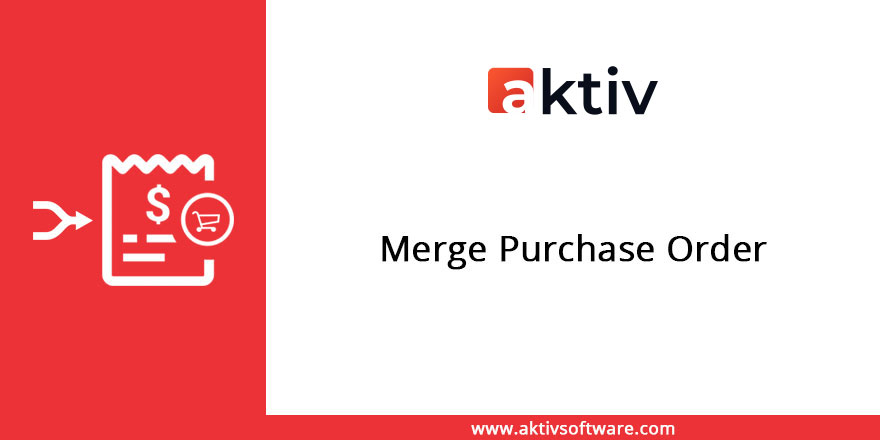
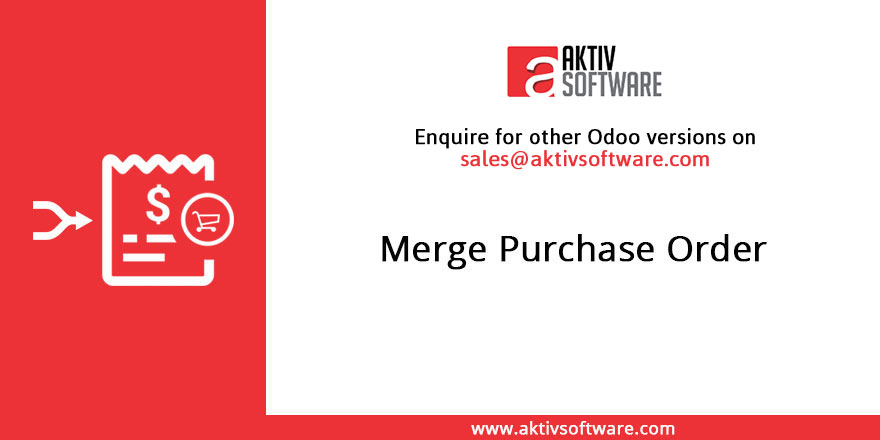
[ADD]: Added Module in 14.0

Changed region(s): [[0.5523, 0.0886, 0.767, 0.2659], [0.4602, 0.2955, 0.8591, 0.3841]]

diff --git a/merge_purchase_order/static/description/index.html b/merge_purchase_order/static/description/index.html
@@ -5,7 +5,9 @@
                     Merge Purchase Order </span></b></h4>
         </div>
     </div>
-
+    <div class="oe_slogan oe_spaced text-center" style="margin-top: -15px;">
+        <a class="btn btn success mt8" title="video_tutorial" target="new" style="background-color:#ff4040; font-size: 20px; color: #ffffff; !important; position:relative; overflow: hidden;" href="https://youtu.be/IrEScNLmz3Q"><b>Video Tutorial</b></a>
+    </div>
     <p align="left">The Merge Purchase Order module allows you to merge the purchase orders in Quotation State. It helps to reduce the RFQ for same vendors and thus orders can be easily managed. You will also get further customization when you select orders and go for the “Merge Order” stage. Here are some of the customization Aktiv has provided with the Merging of Purchase Orders.</p>
 
     <div class="oe_centered">
@@ -79,21 +81,94 @@
             <img src="image/warning.png" style="width: 100%;"/>
         </div>
     </div>
+</section>
 
+<!-- You may also like -->
+<section class="oe_row">    
+    <div class="oe_span12">
+        <h2 class="col-mg-12 col-lg-12 oe_slogan">
+            <a style="color: #000000;">
+                You may also like
+            </a>
+        </h2>
+        <div class="mb-4" style="margin-bottom: 1rem;">
+            <div class="row">
+                <div class="col-xs-4 col-sm-4 col-md-4 col-lg-4">
+                    <a class="mt8" target="_blank" href="https://apps.odoo.com/apps/modules/13.0/merge_sale_order/" style="box-shadow: 0px 3px 12px rgba(0,0,0,0.2);">
+                        <img src="image/merge_sale_order_banner.jpeg" style="max-width: 100%;"/>
+                    </a>
+                </div>
+                <div class="col-xs-4 col-sm-4 col-md-4 col-lg-4">
+                    <a class="mt8" target="_blank" href="https://apps.odoo.com/apps/modules/11.0/vendor_purchase_history/" style="box-shadow: 0px 3px 12px rgba(0,0,0,0.2); padding-left: 0px;">
+                        <img src="image/vendor_purchase_history_banner.jpeg" style="max-width: 100%;"/>
+                    </a>
+                </div>
+                <div class="col-xs-4 col-sm-4 col-md-4 col-lg-4">
+                    <a class="mt8" target="_blank" href="https://apps.odoo.com/apps/modules/11.0/quotation_revision/" style="box-shadow: 0px 3px 12px rgba(0,0,0,0.2); padding-left: 0px;">
+                        <img src="image/quotation_revision_banner.jpeg" style="max-width: 100%;"/>
+                    </a>
+                </div>
+            </div>
+        </div>
+        <div class="mb-4" style="margin-bottom: 1rem;">
+            <div class="row">
+                <div class="col-xs-4 col-sm-4 col-md-4 col-lg-4">
+                    <a class="mt8" target="_blank" href="https://apps.odoo.com/apps/modules/11.0/customer_order_report/" style="box-shadow: 0px 3px 12px rgba(0,0,0,0.2); padding-left: 0px;">
+                        <img src="image/customer_order_reports_banner.jpeg" style="max-width: 100%;"/>
+                    </a>
+                </div>
+                <div class="col-xs-4 col-sm-4 col-md-4 col-lg-4">
+                    <a class="mt8" target="_blank" href="https://apps.odoo.com/apps/modules/10.0/sale_discount_limit/" style="box-shadow: 0px 3px 12px rgba(0,0,0,0.2); padding-left: 0px;">
+                        <img src="image/sale_discount_limit_banner.jpeg" style="max-width: 100%;"/>
+                    </a>
+                </div>
+                <div class="col-xs-4 col-sm-4 col-md-4 col-lg-4">
+                    <a class="mt8" target="_blank" href="https://apps.odoo.com/apps/modules/11.0/vendor_selection/" style="box-shadow: 0px 3px 12px rgba(0,0,0,0.2); padding-left: 0px;">
+                        <img src="image/vendor_selection_for_dropshipping_banner.jpeg" style="max-width: 100%;"/>
+                    </a>
+                </div>
+            </div>
+        </div>
+    </div>
+</section>
+
+<!-- Get Help & Support -->
+<section class="oe_row">
     <div class="oe_row oe_spaced">
+        <h2 class="oe_slogan">
+            <a href="mailto:sales@aktivsoftware.com"
+               style="color: #000000 !important;">
+                Get Help &amp; Support
+            </a>
+        </h2>
+        <div class="oe_slogan oe_spaced text-center">
+            <a class="btn btn success mt8" title="website" target="new"
+               style="background-color:#ff4040;  color: #ffffff; !important; position:relative; overflow: hidden;"
+               href="http://aktivsoftware.com/"><b>Website</b></a>
+            <a class="btn btn success mt8" title="Contact Us"
+               style="background-color:#ff4040; color: #ffffff; !important; position:relative; overflow: hidden;"
+               href="mailto:sales@aktivsoftware.com"><b>Contact Us</b></a>
+            <a class="btn btn success mt8"
+               title="Request New Features Now!"
+               style="background-color:#ff4040; color: #ffffff; !important; position:relative; overflow: hidden;"
+               href="mailto:sales@aktivsoftware.com"><b>Request For New
+                Features</b></a>
+                <br/>
+            <a class="btn btn success mt8" title="Aktiv Apps"
+               style="background-color:#ff4040; color: #ffffff; !important; position:relative; overflow: hidden;" href="https://apps.odoo.com/apps/modules/browse?search=aktiv_software" target="_blank"><i class="fa fa-list-alt mr-1"></i> <span class=" d-sm-inline">Aktiv</span> All Apps</a>
+            <a class="btn btn success mt8" title="Migrate to latest version?"
+               style="background-color:#ff4040; color: #ffffff; !important; position:relative; overflow: hidden;" href="http://www.aktivsoftware.com/get-started/" target="_blank"><i class="fa fa-list-alt mr-1"></i> <span class=" d-sm-inline">Migrate</span> To Latest version</a>
+        </div>
         <h2 class="oe_slogan">
             <a href="http://aktivsoftware.com/" target="new">
                 <img src="aktiv-logo.png"/>
             </a>
             <br/>
-            <a href="mailto:sales@aktivsoftware.com" style="color: #000000 !important;">
-                        Get Help &amp; Support
-            </a>
+            <a href="https://www.facebook.com/AktivSoftware/" > <i class="fa fa-facebook fa-4x" style="color:white;background: #4c4a8a;width:35px; ;height: 35px;padding-top: 7px;font-size: 21px;margin-right: 6px;border-radius: 100%;"></i> </a>
+            <a href="https://twitter.com/aktiv_software"> <i style="color:white;background: #47bee2;width:35px;height: 35px;padding-top: 7px;font-size: 21px;margin-right: 6px;border-radius: 100%;" class="fa fa-twitter fa-4x"></i> </a>
+            <a href="https://www.linkedin.com/company/aktiv-software/"
+            > <i class="fa fa-linkedin fa-4x" style="color:white;background: #1f9dd6;width:35px;padding-left: 3px;height: 35px;padding-top: 7px;font-size: 21px;margin-right: 6px;border-radius: 100%;"></i> </a>
+            <a href="https://youtu.be/IrEScNLmz3Q" > <i class="fa fa-youtube-play" style="color:white;background: #ef4800;width:35px; ;height: 35px;padding-top: 7px;font-size: 21px;margin-right: 6px;border-radius: 100%;"></i> </a>
         </h2>
-        <div class="oe_slogan oe_spaced text-center">
-            <a class="btn btn success mt8" title="website" target="new" style="background-color:#ff4040;  color: #ffffff; !important; position:relative; overflow: hidden;" href="http://aktivsoftware.com/"><b>Website</b></a>
-            <a class="btn btn success mt8" title="Contact Us" style="background-color:#ff4040; color: #ffffff; !important; position:relative; overflow: hidden;" href="mailto:sales@aktivsoftware.com"><b>Contact Us</b></a>
-            <a class="btn btn success mt8" title="Request New Features Now!" style="background-color:#ff4040; color: #ffffff; !important; position:relative; overflow: hidden;" href="mailto:sales@aktivsoftware.com"><b>Request For New Features</b></a>
-        </div>
     </div>
 </section>

diff --git a/merge_purchase_order/wizard/merge_puchase_order_wizard.py b/merge_purchase_order/wizard/merge_puchase_order_wizard.py
@@ -6,7 +6,7 @@ from odoo.exceptions import UserError
 
 class MergePurchaseOrder(models.TransientModel):
     _name = 'merge.purchase.order'
-
+    _description = 'Merge Purchase Order'
     merge_type = \
         fields.Selection([
             ('new_cancel',
@@ -35,7 +35,6 @@ class MergePurchaseOrder(models.TransientModel):
                 }
             return res
 
-    @api.multi
     def merge_orders(self):
         purchase_orders = self.env['purchase.order'].browse(
             self._context.get('active_ids', []))
@@ -61,6 +60,7 @@ class MergePurchaseOrder(models.TransientModel):
             default = {'order_id': po.id}
             for order in purchase_orders:
                 for line in order.order_line:
+                    existing_po_line = False
                     if po.order_line:
                         for poline in po.order_line:
                             if line.product_id == poline.product_id and\
@@ -87,6 +87,7 @@ class MergePurchaseOrder(models.TransientModel):
             default = {'order_id': po.id}
             for order in purchase_orders:
                 for line in order.order_line:
+                    existing_po_line = False
                     if po.order_line:
                         for po_line in po.order_line:
                             if line.product_id == po_line.product_id and \
@@ -113,6 +114,7 @@ class MergePurchaseOrder(models.TransientModel):
                 if order == po:
                     continue
                 for line in order.order_line:
+                    existing_po_line = False
                     if po.order_line:
                         for po_line in po.order_line:
                             if line.product_id == po_line.product_id and \
@@ -139,6 +141,7 @@ class MergePurchaseOrder(models.TransientModel):
                 if order == po:
                     continue
                 for line in order.order_line:
+                    existing_po_line = False
                     if po.order_line:
                         for po_line in po.order_line:
                             if line.product_id == po_line.product_id and \

diff --git a/merge_purchase_order/__manifest__.py b/merge_purchase_order/__manifest__.py
@@ -2,20 +2,17 @@
 
 {
     'name': 'Merge Purchase Order',
-    'category': 'Purchase',
+    'category': 'Purchases',
     'summary': 'This module will merge purchase order.',
-    'version': '12.0.1.0.0',
+    'version': '14.0.1.0.0',
     'website': 'http://www.aktivsoftware.com',
     'author': 'Aktiv Software',
     'description': 'Merge Purchase Order',
     'license': "AGPL-3",
 
-    'depends': [
-        'purchase',
-        'stock'
-    ],
-
+    'depends': ['purchase', 'stock', 'l10n_us'],
     'data': [
+        'security/ir.model.access.csv',
         'wizard/merge_puchase_order_wizard_view.xml',
     ],
 

diff --git a/merge_purchase_order/README.md b/merge_purchase_order/README.md
@@ -1,4 +1,4 @@
-Odoo 12.0 Community Master
+Odoo 13.0 Community
 
 Installation 
 ============
@@ -16,6 +16,10 @@ Steps
 =====
 * Go to Purchase after installing the module and select the orders that you want to merge
  and click on action and click on merge orders.
+
+13.0.1.0.1
+===========
+Fix bug in Merge order on all Conditions (Order line product qty)
 
 
 
